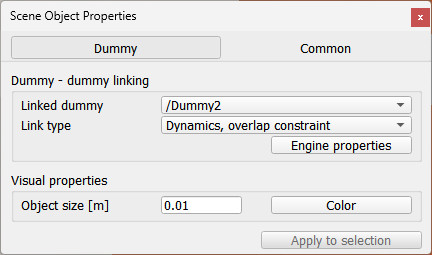
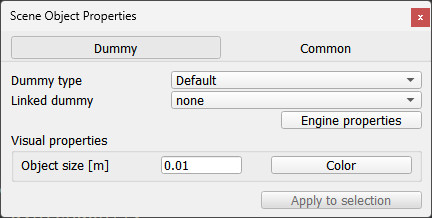
updated the dummy dialog

diff --git a/en/acknowledgments.htm b/en/acknowledgments.htm
@@ -146,7 +146,7 @@ Eric Rohmer who is a thorough CoppeliaSim tester and an &quot;idea machine&quot;
 <li>Marcin Konarski, Salvatore Sanfilippo, Pieter Noordhuis for the <a href="https://github.com/AmokHuginnsson/replxx/" target="_blank">Replxx</a> library, used in the headless version of the <a href="commandLine.htm#commander">commander plugin</a>. <a href="#replxx">See the license</a>.</li>
 <li>Benjamin Navarro, for his code in the legacy remote API, which enables shared memory communication instead of socket communication.</li>
 
-<li>Following people for noticing bugs, reporting problems, suggesting solutions or new ideas, providing patches, code improvements, or simply helping out: Guillermo Presti, Matthias Fueller, Paul Fudal, Matthieu Lapeyre, Alberto Fanjul, Laurens Philippo, Vadim Liventsev, Kirill Makukhin, Patrick Bouffard, Pouya Mohammadi, Luca Marchionni, Barrett Ames, Arnaud Leleve, Geerten Doornenbal, Nikolaus Wittenstein, Ayberk Ozgur, Qi Wang, Giordano, Karl Robillard, Brian Yeomans, Kiyoshi Irie, Ulrich Schwesinger, Peter Mačička, Inkyu Sa, David Butterworth, Marco Cognetti, Xinyu Zhang, Jaqueline Gallardo, Serkan ÇİÇEK, Taehoon Koo, He Tao, Yusuke Ishizawa, Billy Newman, Rüdiger Dehmel, Roberto Marino, Renaud Detry, Roband, Hendrik Wiese, Matthias Schindler, George Moustris, Marco Bellaccini, Klaus Raizer, Paulo Gurgel, Stéphane Magnenat, Philipp Krüsi, Pascal Gohl, Gianpaolo Gonnelli, Felix Herrmann, Edgar Virga, Josep Tormo Costa, Gaël Ecorchard, Massimo Cefalo, Robert Lang, Marc Durvaux, Alexander Rietzler, Matt Derry, Arne Hitzmann, Sergi Foix, Daniel Morberg, Andreas Kuhner, Gerold Huber, Danilo Vasconcellos Vargas, Spencer Krause, Daniel Kuhner, Filip Jares, Luigi Ferri, Michaela Richter, Daniel Lechner, Sven Knüppel, Steve Nguyen, Jonas Sperling, Roberto Guzman, James Besancon, Andrew Vardy, Bipeen Acharya, Fred Gisa, Simon D. Levy, Leopoldo Armesto, Rodrigo Moreno Garcia, Hanna Kurniawati, Dimitri Klimenko, Joshua Mun Song,  Vinay Yadav, Thomas Estier, Matthias Imle, Rosé Rosado, Soner Ulun, Reza Mahjourian, Ben Allan, Riccardo Spica,  Giovanni Claudio, Guenter Schreiber, Antoine Rennuit, Francois Conti, Sébastien Granges, Patrick Helmer, Eva Alves Costa, Lucian Cucu, Sigurd Villumsen, Andrea Censi, Pierre Rouanet, Leander Hille, Christoph Hügle, William Harrison, Scott Drew Pendleton, Jan Dentler, Raimund Krenmüller, Anuraj Rajendraprakash, Ilya Nemihin, Ángel Luis Jiménez García, Leander Hille, Pierre Rouanet, Kenichi Hara, Ilya Nemihin, Federico Ferri, Michael Michalik, Martin Pecka, Nicola Piccinelli, Kshitij Tiwari, Victor Gomez, Parker Owan, Yuki Suga, Muhammad Umer Huzaifa, Marshall Floyd, Augusto Gandia, Pierre Jacquot, Gurvan Le Bleis, Andreu Vidal, Nicola Di Pol, Tobias Groll, Wu Xiaojun, Karol Mocniak, Ana Lucia, Ricardo Azambuja, Anto Ronson, Graeme Neff Wilson, Minson Lee, Tiago Malheiro, Andrew Hundt, Ahmed Yacine, Matthias Ploner, Indranil Sur, Sung Kyun Kim, Rik Timmers, Matthew Veres, Korolyov Alexei, Daniel Angelov, Mohammed Talha, Bartolomeo Della Corte, Scott Hissam, Mark Fink, Hao Wang, Matias Nitsche, Ndivhuwo Makondo, Yu Zhang, DeKita G. Moon, Paul Santiago Tumbaco Casa, Tobias Benz, Rodrigo Moreno Garcia, Arjun Narayanan, Sven Schweigler, Nicola Battilani, Mark Edmonds,  Benno Timmermann, Cándido Otero Moreira, Justin Yim, Allen Zhu, Leo Koppel, Ravi Prakash Joshi, Sina Radmard, Sai Vemprala, Waleed El-Badry, James Barger, Gonzalo Casas, Metehan Doyran, Arif Rahman, Jason Cachrane, Steffen Hemer, Fangyi Zhang, Filipe Rocha, virgile Daugé, Riccardo Spica, Florian Golemo, Kevin M. Lynch, Frank C. Park, Jacob Huesman, Matthew Veres, Cándido Otero, Leon Masopust, Michael Tong, Zhengxing Yang, Thomas Gurriet, Lenka Pitonakova, Hervé Frezza-Buet, Justus Rijke, Stefan Müller, Julien Lechalupe, Tristan Gahler, Robert Peck, William Jones, Benjamin Erdemann, Boris Bogaerts, Ulrich Viereck, Amdrei Florea, Catalin Buiu, Joachim Haensel, Julian Mayer, Jacob Smith, Mohsen Moradi Dalvand, Simon Birrell, Mathias Thor, Jedrzej Orbik, Liu Dong, Mark Hartenstein, Alexander Oliva, Claudio Gaz, Simon Birrell, Sahil Sharma, Adrian Schoisengeier, Rémi Lux, Kilian Freitag, Maël Hörz, Jakub Turaj, Rieky Barady, Jian Ye, Jaime Boal, Pável Axel Mc Campos Peña, Patrick Gruener, Thomas Wilmotte, Lorenzo Romanini, Johan Relefors, Pablo Bustos, Sonny Tarbouriech, Aleksander Sil, Arturs Paugurs, Wei Wei, David Page, Leopoldo Armesto, Ayush Patel, Cameron Kabacinski, Francisco Marin, Kevin Thomas, Nikita Aigner, Charles Han, Shai Levy, Bobovsky Zdenko, Salvatore Sessa, Jakob Ambsdorf, Hayato Amaike, Nathan Kocherhans, Alex Wuqi Zhang, René Simon, Yongdong Wang, Andrés Faíña, Davide Scorza, Jovan Sumarac, Alexander Oliva, Luigi Ascione, Rui Li, Patrick Grüner, Andrés Faíña, Michal Mareš, Kat Styles Wood, David Paulius, Pranav A. Bhounsule, Davide Scorza, Amirhossein Afkhami Ardekani, Roman Horshkov, Volker Kühn, Artem Shishkin, Andrey Voronkov, Vitalii Kudinov, Yong Jiang, github user mfrigerio17, Elia Cereda, Keith Siilats, Pardeep Singh Panesar, Zichun Xu, Belal Elsayed, Clélie Demey, Fumio Ozaki, Christopher Blum... We know we forgot many many people, also significant ones... please let us know!</li>
+<li>Following people for noticing bugs, reporting problems, suggesting solutions or new ideas, providing patches, code improvements, or simply helping out: Guillermo Presti, Matthias Fueller, Paul Fudal, Matthieu Lapeyre, Alberto Fanjul, Laurens Philippo, Vadim Liventsev, Kirill Makukhin, Patrick Bouffard, Pouya Mohammadi, Luca Marchionni, Barrett Ames, Arnaud Leleve, Geerten Doornenbal, Nikolaus Wittenstein, Ayberk Ozgur, Qi Wang, Giordano, Karl Robillard, Brian Yeomans, Kiyoshi Irie, Ulrich Schwesinger, Peter Mačička, Inkyu Sa, David Butterworth, Marco Cognetti, Xinyu Zhang, Jaqueline Gallardo, Serkan ÇİÇEK, Taehoon Koo, He Tao, Yusuke Ishizawa, Billy Newman, Rüdiger Dehmel, Roberto Marino, Renaud Detry, Roband, Hendrik Wiese, Matthias Schindler, George Moustris, Marco Bellaccini, Klaus Raizer, Paulo Gurgel, Stéphane Magnenat, Philipp Krüsi, Pascal Gohl, Gianpaolo Gonnelli, Felix Herrmann, Edgar Virga, Josep Tormo Costa, Gaël Ecorchard, Massimo Cefalo, Robert Lang, Marc Durvaux, Alexander Rietzler, Matt Derry, Arne Hitzmann, Sergi Foix, Daniel Morberg, Andreas Kuhner, Gerold Huber, Danilo Vasconcellos Vargas, Spencer Krause, Daniel Kuhner, Filip Jares, Luigi Ferri, Michaela Richter, Daniel Lechner, Sven Knüppel, Steve Nguyen, Jonas Sperling, Roberto Guzman, James Besancon, Andrew Vardy, Bipeen Acharya, Fred Gisa, Simon D. Levy, Leopoldo Armesto, Rodrigo Moreno Garcia, Hanna Kurniawati, Dimitri Klimenko, Joshua Mun Song,  Vinay Yadav, Thomas Estier, Matthias Imle, Rosé Rosado, Soner Ulun, Reza Mahjourian, Ben Allan, Riccardo Spica,  Giovanni Claudio, Guenter Schreiber, Antoine Rennuit, Francois Conti, Sébastien Granges, Patrick Helmer, Eva Alves Costa, Lucian Cucu, Sigurd Villumsen, Andrea Censi, Pierre Rouanet, Leander Hille, Christoph Hügle, William Harrison, Scott Drew Pendleton, Jan Dentler, Raimund Krenmüller, Anuraj Rajendraprakash, Ilya Nemihin, Ángel Luis Jiménez García, Leander Hille, Pierre Rouanet, Kenichi Hara, Ilya Nemihin, Federico Ferri, Michael Michalik, Martin Pecka, Nicola Piccinelli, Kshitij Tiwari, Victor Gomez, Parker Owan, Yuki Suga, Muhammad Umer Huzaifa, Marshall Floyd, Augusto Gandia, Pierre Jacquot, Gurvan Le Bleis, Andreu Vidal, Nicola Di Pol, Tobias Groll, Wu Xiaojun, Karol Mocniak, Ana Lucia, Ricardo Azambuja, Anto Ronson, Graeme Neff Wilson, Minson Lee, Tiago Malheiro, Andrew Hundt, Ahmed Yacine, Matthias Ploner, Indranil Sur, Sung Kyun Kim, Rik Timmers, Matthew Veres, Korolyov Alexei, Daniel Angelov, Mohammed Talha, Bartolomeo Della Corte, Scott Hissam, Mark Fink, Hao Wang, Matias Nitsche, Ndivhuwo Makondo, Yu Zhang, DeKita G. Moon, Paul Santiago Tumbaco Casa, Tobias Benz, Rodrigo Moreno Garcia, Arjun Narayanan, Sven Schweigler, Nicola Battilani, Mark Edmonds,  Benno Timmermann, Cándido Otero Moreira, Justin Yim, Allen Zhu, Leo Koppel, Ravi Prakash Joshi, Sina Radmard, Sai Vemprala, Waleed El-Badry, James Barger, Gonzalo Casas, Metehan Doyran, Arif Rahman, Jason Cachrane, Steffen Hemer, Fangyi Zhang, Filipe Rocha, virgile Daugé, Riccardo Spica, Florian Golemo, Kevin M. Lynch, Frank C. Park, Jacob Huesman, Matthew Veres, Cándido Otero, Leon Masopust, Michael Tong, Zhengxing Yang, Thomas Gurriet, Lenka Pitonakova, Hervé Frezza-Buet, Justus Rijke, Stefan Müller, Julien Lechalupe, Tristan Gahler, Robert Peck, William Jones, Benjamin Erdemann, Boris Bogaerts, Ulrich Viereck, Amdrei Florea, Catalin Buiu, Joachim Haensel, Julian Mayer, Jacob Smith, Mohsen Moradi Dalvand, Simon Birrell, Mathias Thor, Jedrzej Orbik, Liu Dong, Mark Hartenstein, Alexander Oliva, Claudio Gaz, Simon Birrell, Sahil Sharma, Adrian Schoisengeier, Rémi Lux, Kilian Freitag, Maël Hörz, Jakub Turaj, Rieky Barady, Jian Ye, Jaime Boal, Pável Axel Mc Campos Peña, Patrick Gruener, Thomas Wilmotte, Lorenzo Romanini, Johan Relefors, Pablo Bustos, Sonny Tarbouriech, Aleksander Sil, Arturs Paugurs, Wei Wei, David Page, Leopoldo Armesto, Ayush Patel, Cameron Kabacinski, Francisco Marin, Kevin Thomas, Nikita Aigner, Charles Han, Shai Levy, Bobovsky Zdenko, Salvatore Sessa, Jakob Ambsdorf, Hayato Amaike, Nathan Kocherhans, Alex Wuqi Zhang, René Simon, Yongdong Wang, Andrés Faíña, Davide Scorza, Jovan Sumarac, Alexander Oliva, Luigi Ascione, Rui Li, Patrick Grüner, Andrés Faíña, Michal Mareš, Kat Styles Wood, David Paulius, Pranav A. Bhounsule, Davide Scorza, Amirhossein Afkhami Ardekani, Roman Horshkov, Volker Kühn, Artem Shishkin, Andrey Voronkov, Vitalii Kudinov, Yong Jiang, github user mfrigerio17, Elia Cereda, Keith Siilats, Pardeep Singh Panesar, Zichun Xu, Belal Elsayed, Clélie Demey, Fumio Ozaki, Christopher Blum, Javier Quintana, Sebastian Serna... We know we forgot many many people, also significant ones... please let us know!</li>
 
 <p>
 I also wish to thank following people for the inspiration they provided in various fields through their publications, books or other means:

diff --git a/en/dummyPropertiesDialog.htm b/en/dummyPropertiesDialog.htm
@@ -34,19 +34,22 @@
 <p class=imageLabel>[Dummy dialog]</p>
 <br>
 
-<li><strong>Linked dummy</strong>: dummy linked to this one. Linked dummies (easily recognizable by a colored segment linking them, in the<a href="userInterface.htm#SceneHierarchy">scene hierarchy</a>) have special properties and behavior, see next item for more details.<br>
-</li>
+<ul>
+<li><strong>Dummy type</strong>:
+<ul>
+<li><em>Default</em>: the dummy does not have any specialized behavior or function</li>
+<li><em>Assembly</em>: the dummy can act as an assembly point. Assembly compatibility with another assembly-type dummy is given if there is a match between the respective assembly tags: sim.getObjectStringParam(dummyHandle, sim.dummystringparam_assemblytag)</li>
+<li><em>Dynamic, overlap constraint</em>: the dummy and its linked counterpart will try to overlap their position/orientation, allowing to create a <a href="designingDynamicSimulations.htm#loop">dynamic loop closure</a></li>
+<li><em>Dynamic, tendon constraint</em>: the dummy and its linked counterpart will behave as if there was a string or elastic-like constraint between them. Currently only supported with the MuJoCo engine.</li>
+</ul>
+<li><strong>Linked dummy</strong>: an optional dummy linked to this one. Linked dummies can have special properties or behavior</li>
 
-<li><strong>Link type</strong>: the link type will specify the behavior of the linked dummies during simulation. With <em>Dynamics, overlap constraint</em>, the two dummies will try to overlap their respective position/orientation to create dynamics loop closure constraints. With <em>Dynamics, tendon constraint</em>, the two dummies are linked via a string or elastic-like constraint. Refer to the section on <a href="designingDynamicSimulations.htm">designing dynamic simulations</a> for more details).</li>
+<li><strong>Engine properties</strong>: each physics engine has specific parameters related to dummies. Make sure to read the respective engine documentations to achieve best parameter settings</li>
 
-<li><strong>Engine properties</strong>: each physics engine has specific parameters related to dummies. Make sure to read the respective engine documentations to achieve best parameter settings.</li>
+<li><strong>Object size</strong>: size of the dummy. This parameter has only a visual effect, and no functional meaning</li>
 
-<li><strong>Object size</strong>: size of the dummy. This parameter has only a visual effect, and no functional meaning.
-</li>
-
-<li><strong>Color</strong>: allows adjusting a dummy's color
-</li>
-
+<li><strong>Color</strong>: allows adjusting a dummy's color</li>
+</ul>
 
 <br>
 <br>

diff --git a/en/versionInfo.htm b/en/versionInfo.htm
@@ -46,7 +46,7 @@ Version history:
 <a name="coppeliaSim4.7.0" id="coppeliaSim4.7.0"></a>CoppeliaSim V4.7.0 (not yet released)
 </h2>
  
-<li>Fixed several bugs. Thanks to Clélie Demey, Fumio Ozaki and Christopher Blum for noticing them or helping to resolve them</li>
+<li>Fixed several bugs. Thanks to Clélie Demey, Fumio Ozaki, Javier Quintana, Sebastian Serna and Christopher Blum for noticing them or helping to resolve them</li>
 <li>Added sim.scriptintparam_autorestartonerror, allowing to e.g. trigger an add-on restart on error via <a href="regularApi/simSetScriptInt32Param.htm">sim.setScriptInt32Param</a></li>
 <li>User models located in <userSettingsDir>/userContent/models/<category>/ and <userSettingsDir>/overlay/<repoName>/models/<category>/ are automatically overlayed to the model browser</td>
 <li>Better and unifier code editor coloring</td>
